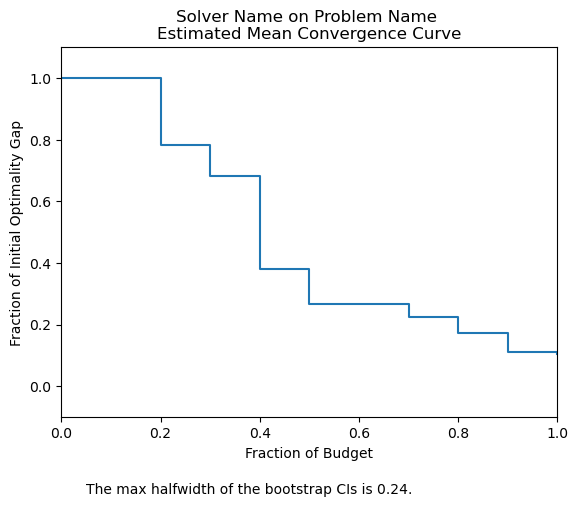
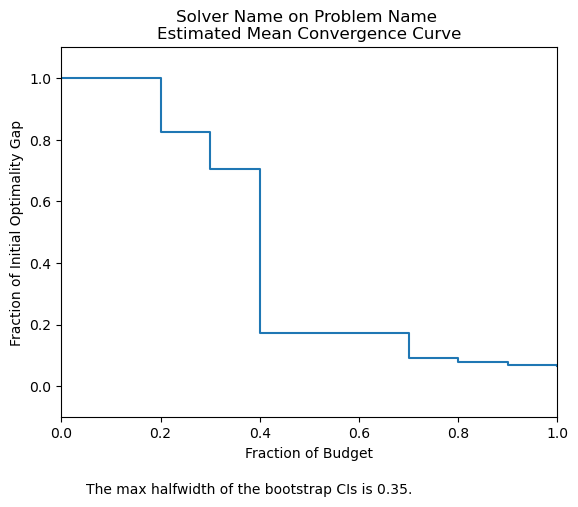
implement bias-corrected bootstrap CIs
Made bias-corrected bootstrap CIs (via percentile method) the default for error estimation.

diff --git a/simopt/wrapper_base.py b/simopt/wrapper_base.py
@@ -10,9 +10,10 @@ Experiment : class
 """
 
 import numpy as np
-from rng.mrg32k3a import MRG32k3a
+from rng.mrg32k3a import MRG32k3a, bsm
 from base import Solver, Problem, Oracle, Solution
 import matplotlib.pyplot as plt
+from scipy.stats import norm
 
 class Experiment(object):
     """
@@ -234,7 +235,7 @@ class Experiment(object):
                     ylim = (-0.1, 1.1)
                 )
                 # construct bootstrap confidence intervals are print caption
-                max_halfwidth = self.bootstrap_CI(plot_type=plot_type)
+                max_halfwidth = self.bootstrap_CI(plot_type=plot_type, estimator = np.mean(self.all_conv_curves, axis=0))
                 txt = "The max halfwidth of the bootstrap CIs is " + str(round(max_halfwidth,2)) + "."
                 plt.text(x=0.05, y=-0.35, s=txt)
                 plt.savefig('experiments/plots/mean_conv_curve.png', bbox_inches='tight')
@@ -261,7 +262,7 @@ class Experiment(object):
                     ylim = (-0.1, 1.1)
                 )
                 # construct bootstrap confidence intervals are print caption
-                max_halfwidth = self.bootstrap_CI(plot_type=plot_type, beta=beta)
+                max_halfwidth = self.bootstrap_CI(plot_type=plot_type, estimator = np.quantile(self.all_conv_curves, q=beta, axis=0), beta=beta)
                 txt = "The max halfwidth of the bootstrap CIs is " + str(round(max_halfwidth,2)) + "."
                 plt.text(x=0.05, y=-0.35, s=txt)
                 plt.savefig('experiments/plots/quantile_conv_curve.png', bbox_inches='tight')
@@ -401,7 +402,7 @@ class Experiment(object):
         bootstrap_rng.advance_substream()
         return bootstrap_conv_curves
 
-    def bootstrap_CI(self, plot_type, n_bootstraps=100, conf_level=0.95,  beta=0.50):
+    def bootstrap_CI(self, plot_type, estimator, n_bootstraps=100, conf_level=0.95, bias_correction=True, beta=0.50):
         """
         Construct bootstrap confidence intervals and compute max half-width.
 
@@ -412,10 +413,14 @@ class Experiment(object):
                 "all" : all estimated convergence curves
                 "mean" : estimated mean convergence curve
                 "quantile" : estimated beta quantile convergence curve
+        estimator : numpy array
+            estimated mean or quantile convergence curve
         n_bootstraps : int > 0
             number of times to generate a bootstrap sample of estimated convergence curves
         conf_level : float in (0,1)
             confidence level for confidence intervals, i.e., 1-alpha
+        bias_correction : bool
+            use bias-corrected bootstrap CIs (via percentile method)?
         beta : float
             quantile for quantile aggregate convergence curve, e.g., beta quantile 
         Returns
@@ -436,8 +441,21 @@ class Experiment(object):
                 bs_aggregate_curves[bs_index] = np.mean(bootstrap_conv_curves, axis=0)
             elif plot_type == "quantile": # quantile convergence curve
                 bs_aggregate_curves[bs_index] = np.quantile(bootstrap_conv_curves, q=beta, axis=0)
-        # compute usual bootstrapping confidence intervals
-        bs_CI_lower_bounds = np.quantile(bs_aggregate_curves, q=(1-conf_level)/2, axis=0)
-        bs_CI_upper_bounds = np.quantile(bs_aggregate_curves, q=(1-(1-conf_level)/2), axis=0)
+        # compute bootstrapping confidence intervals via percentile method
+        # see Efron and Gong (1983) "A leisurely look at the bootstrap, the jackknife, and cross-validation"
+        if bias_correction == True: # if bias-corrected CIs
+            # see equation (17) on page 41
+            z0s = [norm.ppf(np.mean(bs_aggregate_curves[:,budget] < estimator[budget])) for budget in range(len(self.unique_budgets))]
+            zconflvl = norm.ppf(conf_level)
+            q_lowers = [norm.cdf(2*z0 - zconflvl) for z0 in z0s]
+            q_uppers = [norm.cdf(2*z0 + zconflvl) for z0 in z0s]
+            bs_CI_lower_bounds = np.array([np.quantile(bs_aggregate_curves[:,budget], q=q_lowers[budget]) for budget in range(len(self.unique_budgets))])
+            bs_CI_upper_bounds = np.array([np.quantile(bs_aggregate_curves[:,budget], q=q_uppers[budget]) for budget in range(len(self.unique_budgets))])
+        else: # if not bias-corrected CIs
+            # see equation (16) on page 41
+            q_lower = (1-conf_level)/2
+            q_upper = 1-(1-conf_level)/2
+            bs_CI_lower_bounds = np.quantile(bs_aggregate_curves, q=q_lower, axis=0)
+            bs_CI_upper_bounds = np.quantile(bs_aggregate_curves, q=q_upper, axis=0)
         max_halfwidth = np.max((bs_CI_upper_bounds - bs_CI_lower_bounds)/2)
         return max_halfwidth

diff --git a/simopt/test_run_wrapper.py b/simopt/test_run_wrapper.py
@@ -8,7 +8,7 @@ from oracles.mm1queue import MM1Queue
 from experiments.rs_on_mm1 import RandomSearchOnMM1
 
 myexperiment = RandomSearchOnMM1()
-myexperiment.run(n_macroreps=20, crn_across_solns=True)
+myexperiment.run(n_macroreps=10, crn_across_solns=True)
 myexperiment.post_replicate(n_postreps=10, n_postreps_init_opt=50, crn_across_budget=True, crn_across_macroreps=False)
 #myexperiment.make_plots(plot_type="all")
 myexperiment.make_plots(plot_type="mean")
